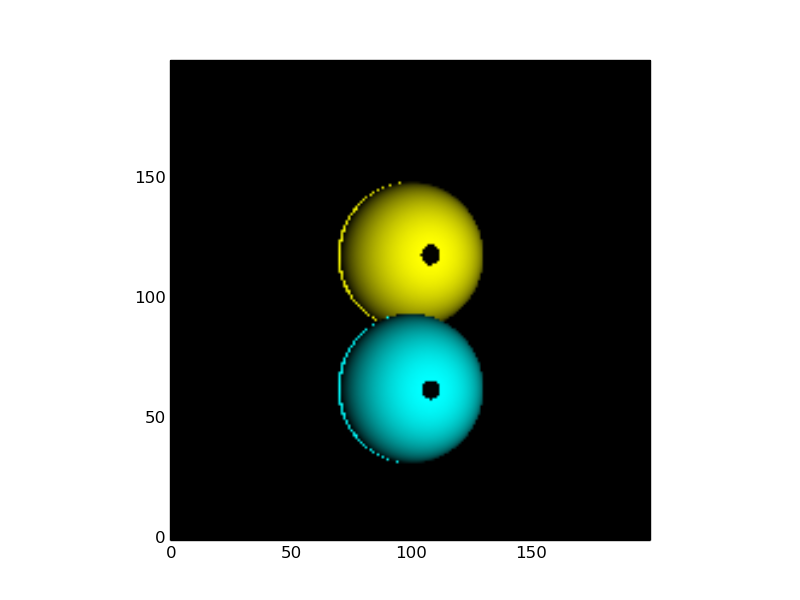
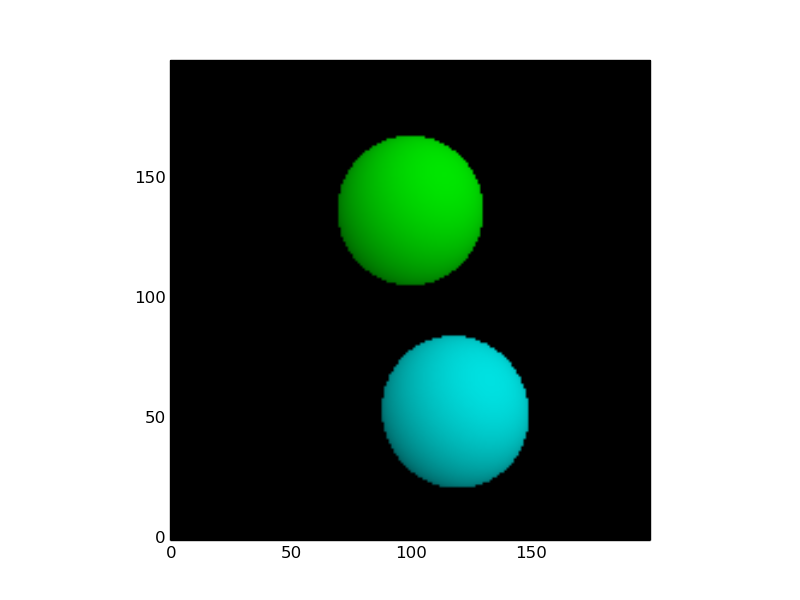
fixed overflow

Changed region(s): [[0.4062, 0.21, 0.6875, 0.84]]

diff --git a/src/main/World.py b/src/main/World.py
@@ -67,20 +67,20 @@ class SphereWorld:
                                    1.0/width, 1.0)
         
         #set up a point light (position, shadows, color, ls)
-        self.pointLight = PointLight(Point(0.0, 1.0, -4.0), False, Color(1.,1.,1.), 4.)
+        self.pointLight = PointLight(Point(2.0, 2.0, -4.0), False, Color(.8,.8,.8), 4.)
         
         # initialize the scene
         self.shapes = [];    
         trans = Transformation(); 
-        trans.translation(0.1, 0., 0.)
+        trans.translation(0.2, 0., 0.)
         trans.scale(0.75, 0.75, 0.75)                       
-        sphere = Sphere(trans, Color(1.,1.,0.), 1. ); #red sphere at the origin.
+        sphere = Sphere(trans, Color(0.,0.6,0.), 0.9 ); #red sphere at the origin.
         self.shapes.append(sphere)
         
         trans = Transformation(); 
-        trans.translation(-0.2, 0., 0.)
+        trans.translation(-0.25, 0.1, 0.)
         trans.scale(0.75, 0.75, 0.75)                       
-        sphere = Sphere(trans, Color(0.,1.,1.), 1. ); #red sphere at the origin.
+        sphere = Sphere(trans, Color(0.,0.6,0.6), 0.9 ); #red sphere at the origin.
         self.shapes.append(sphere)
         
         

diff --git a/src/main/Renderer.py b/src/main/Renderer.py
@@ -50,10 +50,15 @@ class Renderer:
                                       self.world.pointLight.L()* self.world.pointLight.color.getColor() * 
                                       np.dot(self.world.pointLight.l(intersection.point),
                                               intersection.normal.getArray3() )))
-
                         
+                        #Fix overflow...
+                        for i in range(0,2):
+                            if img[x,y,i] > 1.0:
+                                #img[x,y,:] = img[x,y,:]/img[x,y,i]
+                                #img[x,y,:] = img[x,y,:]/5.0; 
+                                img[x,y,:] = [1.,0.,0.]
 
-                
+        
                 
         imgplot = plt.imshow(img)
         plt.gca().invert_yaxis()

diff --git a/src/math/Transformation.py b/src/math/Transformation.py
@@ -37,8 +37,8 @@ class Transformation(object):
     
     def transformNormal(self, normal):
         dataArray = np.dot(self.inverse.transpose(), normal.getArray4())
-        if dataArray[3] != 1.0:
-            print "error"
+        #if dataArray[3] != 1.0:
+            #print "error"
         return Normal(npArray = dataArray)
         
     def transformPoint(self, point):    
